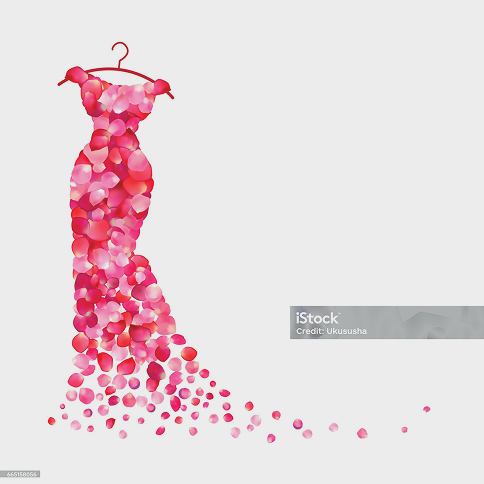
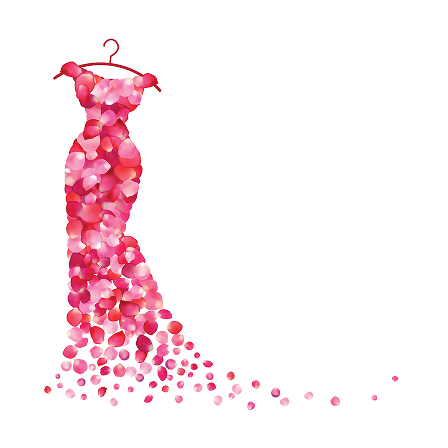
Changed images

diff --git a/public/css/style.css b/public/css/style.css
@@ -1403,7 +1403,7 @@ footer ul {
 }
 
 #dress {
-    background-color: #ececec;
+    background-color: transparent;
     padding: 44px 0;
 }
 

diff --git a/resources/views/pages/luxury-delivery.blade.php b/resources/views/pages/luxury-delivery.blade.php
@@ -169,7 +169,7 @@
             </div>
             <div class="col-md-6 p-0">
                 <div class="who_we_are_left">
-                    <img src="{{ asset('img/watch.png') }}" alt="watch" class="img-fluid">
+                    <img src="{{ asset('img/watch.png') }}" alt="watch" class="img-fluid ms-auto">
                 </div>
             </div>
         </div>
